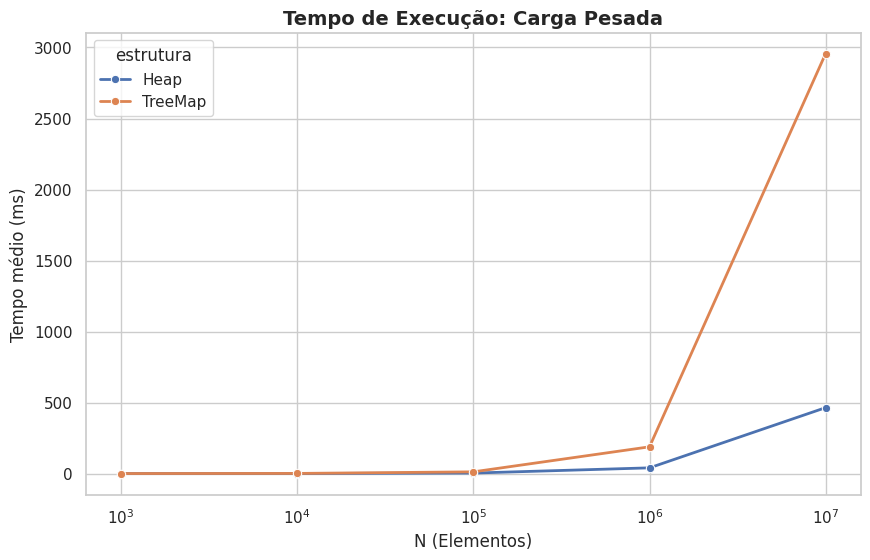
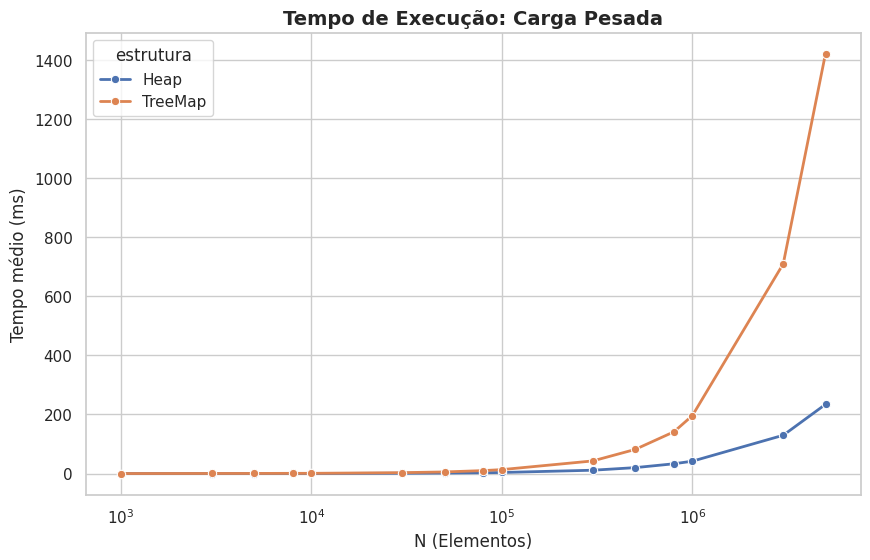
fix: suavizando gráficos

diff --git a/src/main/java/tests/Runner.java b/src/main/java/tests/Runner.java
@@ -9,12 +9,17 @@ public class Runner{
     // Configuração dos experimentos
 
     // Tamanhos de entrada a serem testados
-    static final int[] TAMANHOS = { 1_000, 10_000, 100_000, 1_000_000, 10_000_000 };
+    static final int[] TAMANHOS = {
+        1_000, 3_000, 5_000, 8_000, 10_000,
+        30_000, 50_000, 80_000, 100_000,
+        300_000, 500_000, 800_000, 1_000_000,
+        3_000_000, 5_000_000
+    };
 
     //Repetições de warm-up (sem medição) 
     static final int WARMUP = 5;
 
-    // Repetições com medição real(devemos mudar essa quantidade, mas pra quanto?) 
+    // Repetições com medição real 
     static final int REPETICOES = 10;
 
     /**
